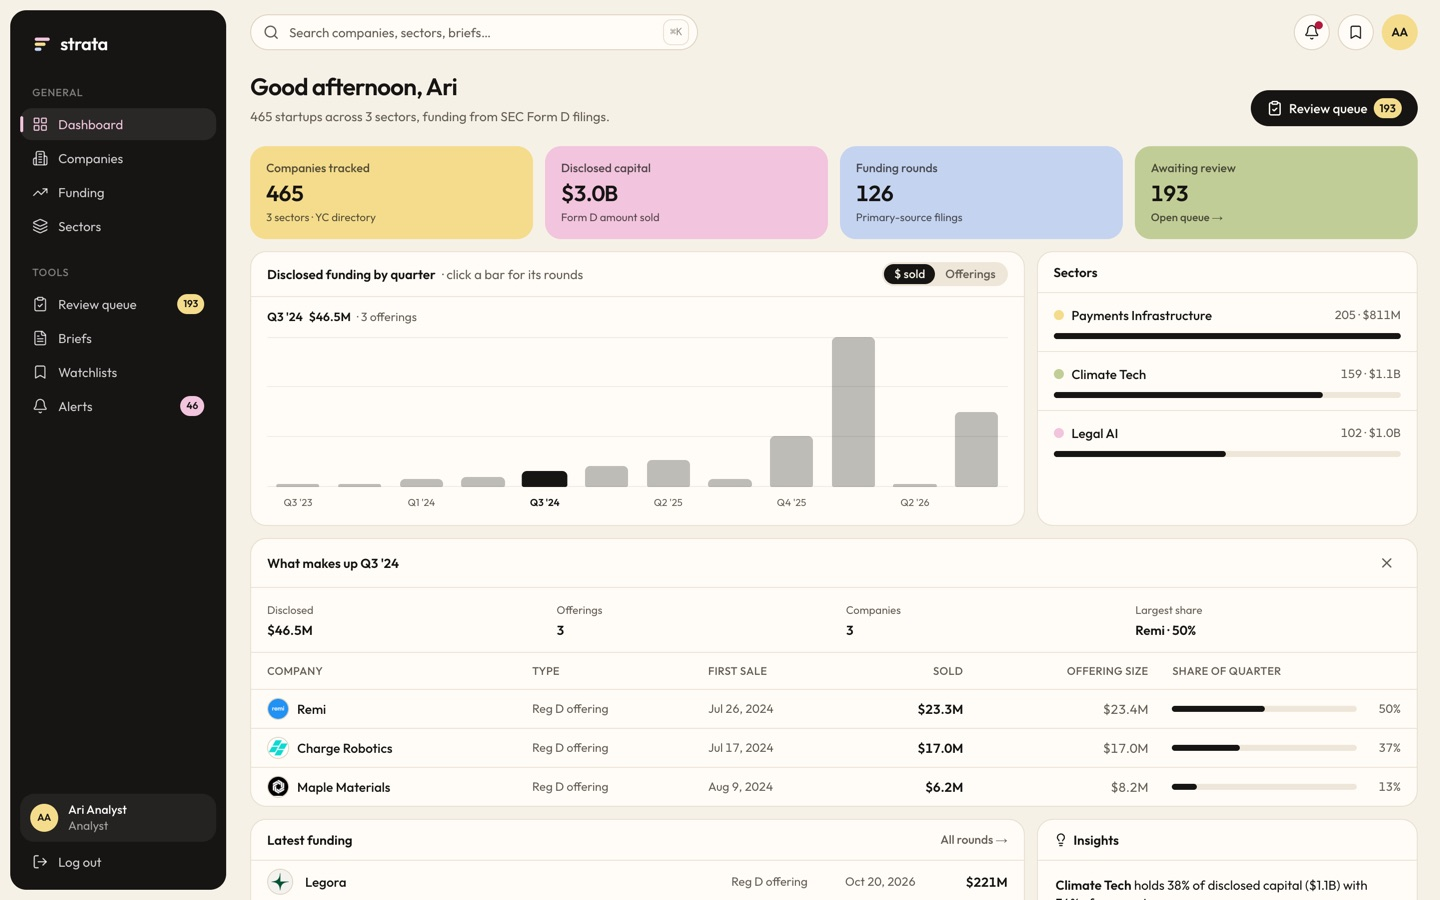
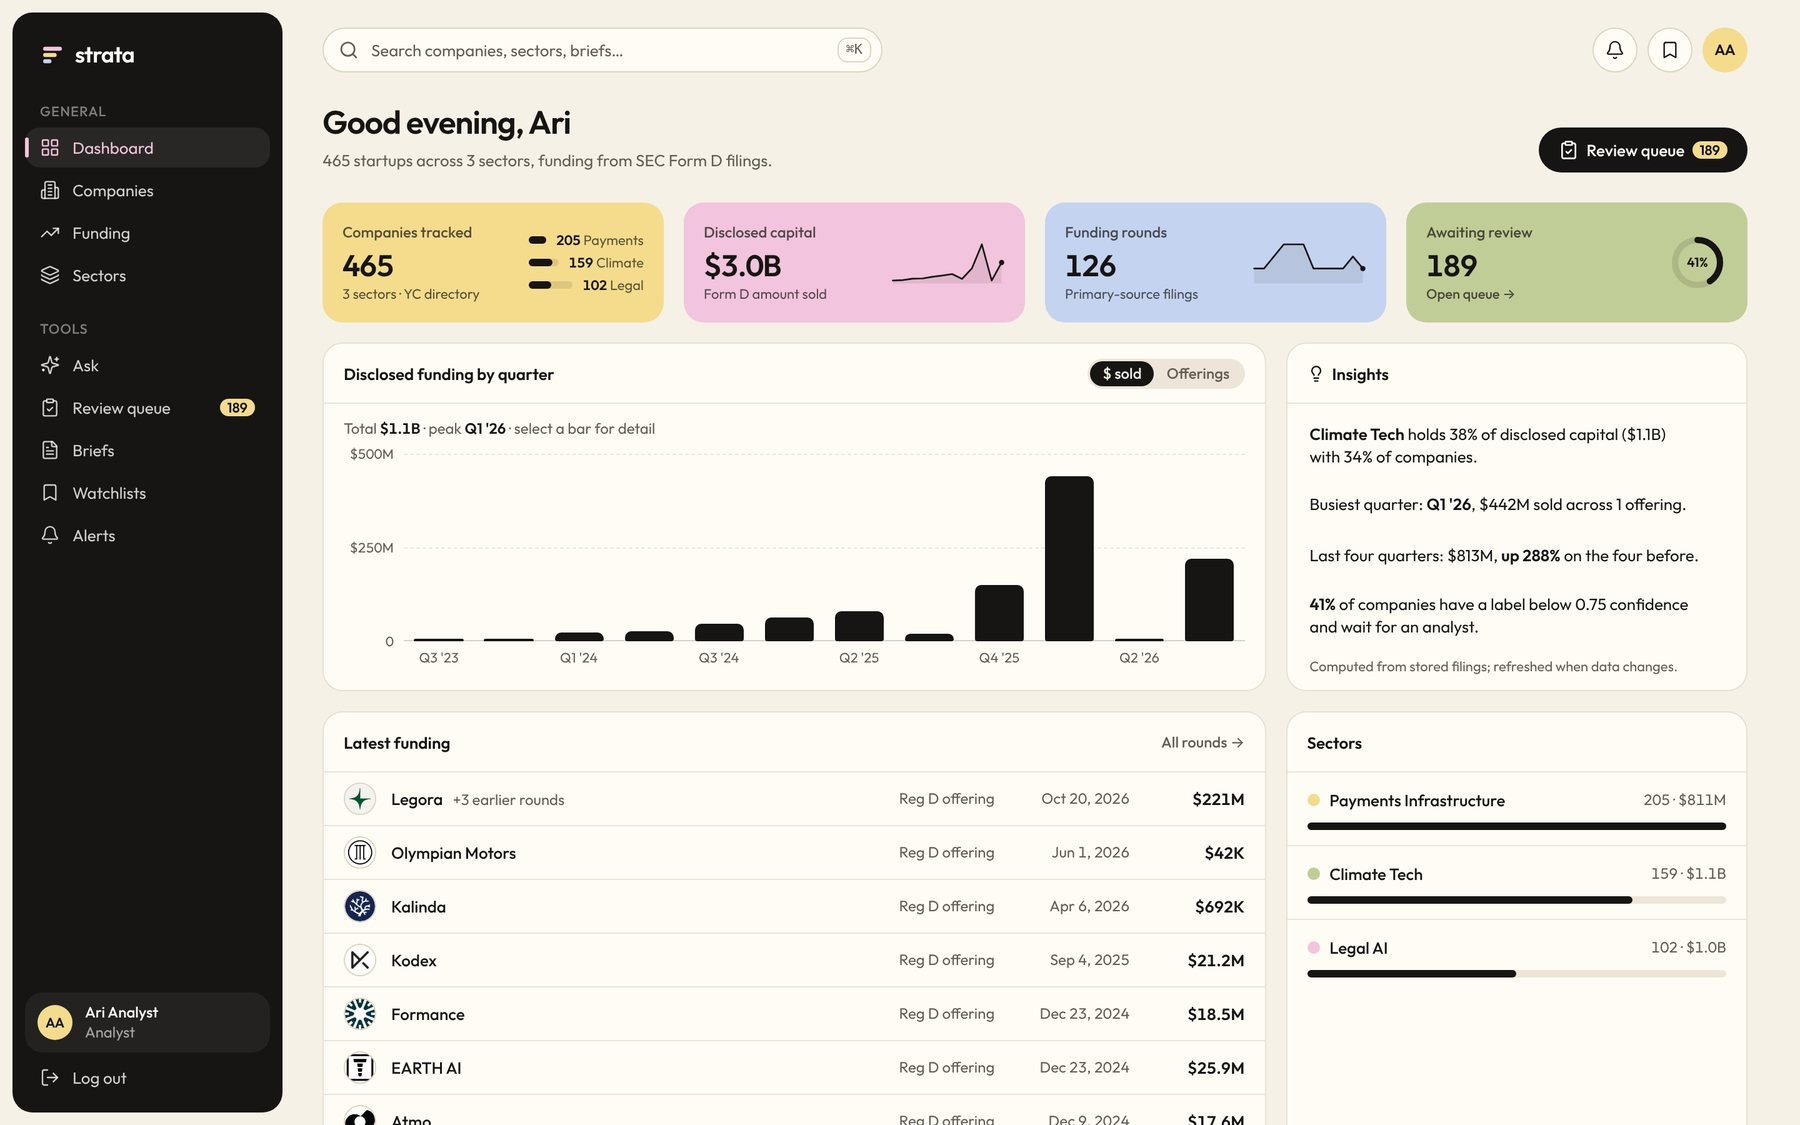
Strata: Case study button, fresh screenshots, test count 167
- Case study button beside Visit live and Code, linking to the case study hosted in Strata's own design.
- Strata gallery uses screenshots from the current UI.
- Automated tests: 167 (110 API, 21 web, 36 end-to-end), matching the repo.

Claude-Session: https://claude.ai/code/session_01ATKTrJFDXsw2PQ7DxF1mZC

diff --git a/app/work/[slug]/page.tsx b/app/work/[slug]/page.tsx
@@ -1,7 +1,7 @@
 import type { Metadata } from "next";
 import Link from "next/link";
 import { notFound } from "next/navigation";
-import { ArrowLeft, ArrowUpRight } from "lucide-react";
+import { ArrowLeft, ArrowUpRight, BookOpen } from "lucide-react";
 import { IconBrandGithub } from "@tabler/icons-react";
 import { Artboard, ButtonLink, CoverArt, PASTELS, PageShell, SelectionFrame, Tag, delay, tagHead } from "@/components/ui-bits";
 import { ScreenCarousel } from "@/components/ScreenCarousel";
@@ -59,8 +59,9 @@ export default async function ProjectPage({ params }: { params: Promise<{ slug: 
             </>)}
           </dl>
         </div>
-        {(project.links.live || project.links.repo) && (
+        {(project.links.live || project.links.repo || project.links.caseStudy) && (
           <div className="reveal flex shrink-0 flex-wrap items-center gap-2" style={delay(160)}>
+            {project.links.caseStudy && <ButtonLink href={project.links.caseStudy} variant="ghost" external><BookOpen className="h-4 w-4" /> Case study</ButtonLink>}
             {project.links.live && <ButtonLink href={project.links.live} external>Visit live <ArrowUpRight className="h-4 w-4" /></ButtonLink>}
             {project.links.repo && <ButtonLink href={project.links.repo} variant="ghost" external><IconBrandGithub className="h-4 w-4" stroke={1.75} /> Code</ButtonLink>}
           </div>

diff --git a/lib/projects.ts b/lib/projects.ts
@@ -15,7 +15,8 @@ export type Project = {
   tier: "star" | "building" | "more";
   status: string;
   stack: string[];
-  links: { live?: string; repo?: string };
+  /** caseStudy: a full case study page hosted with the product, in the product's own design */
+  links: { live?: string; repo?: string; caseStudy?: string };
   /** Who did what, e.g. "Solo · Product design, front end, back end" */
   role: string;
   /** Real limits the work was shaped by */
@@ -61,12 +62,12 @@ export const PROJECTS: Project[] = [
       { value: "465", label: "Companies tracked" },
       { value: "100%", label: "RAG retrieval Hit@5" },
       { value: "87.8%", label: "Gemini accuracy (41 labelled)" },
-      { value: "147", label: "Automated tests" },
+      { value: "167", label: "Automated tests" },
     ],
     tier: "star",
     status: "Live demo",
     stack: ["Node.js", "Express", "MongoDB", "Atlas Vector Search", "Gemini", "Next.js", "Kafka", "Redis"],
-    links: { live: "https://strata-weld-sigma.vercel.app", repo: `${GH}/AN` },
+    links: { live: "https://strata-weld-sigma.vercel.app", repo: `${GH}/AN`, caseStudy: "https://strata-weld-sigma.vercel.app/case-study" },
     role: "Solo \u00b7 Product design, front end, back end, data",
     constraints: "Public data only, free hosting tiers and a free AI quota that runs out.",
     decisions: [
